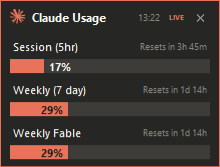
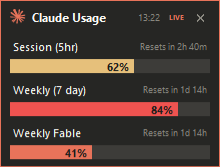
Refresh demo images to show colour thresholds; add settings-menu screenshot
Regenerate Demo_Collapse/Expanded/Mascot with values that exercise the
amber(>50%)/red(>80%) colouring, and add Demo_Menu.png for the right-click
settings menu.

diff --git a/README.md b/README.md
@@ -15,9 +15,15 @@ Pure Python standard library + tkinter — **no third-party packages, no API key
 
 ![Expanded view](Demo_Expanded.png)
 
+The percentage/gauge turns **amber above 50%** and **red above 80%**.
+
 **Mascot** — click the icon to switch between the Claude logo and an animated pixel mascot
 
 ![Mascot view](Demo_Mascot.png)
+
+**Settings** — right-click for a themed menu
+
+![Settings menu](Demo_Menu.png)
 
 ## Features
 